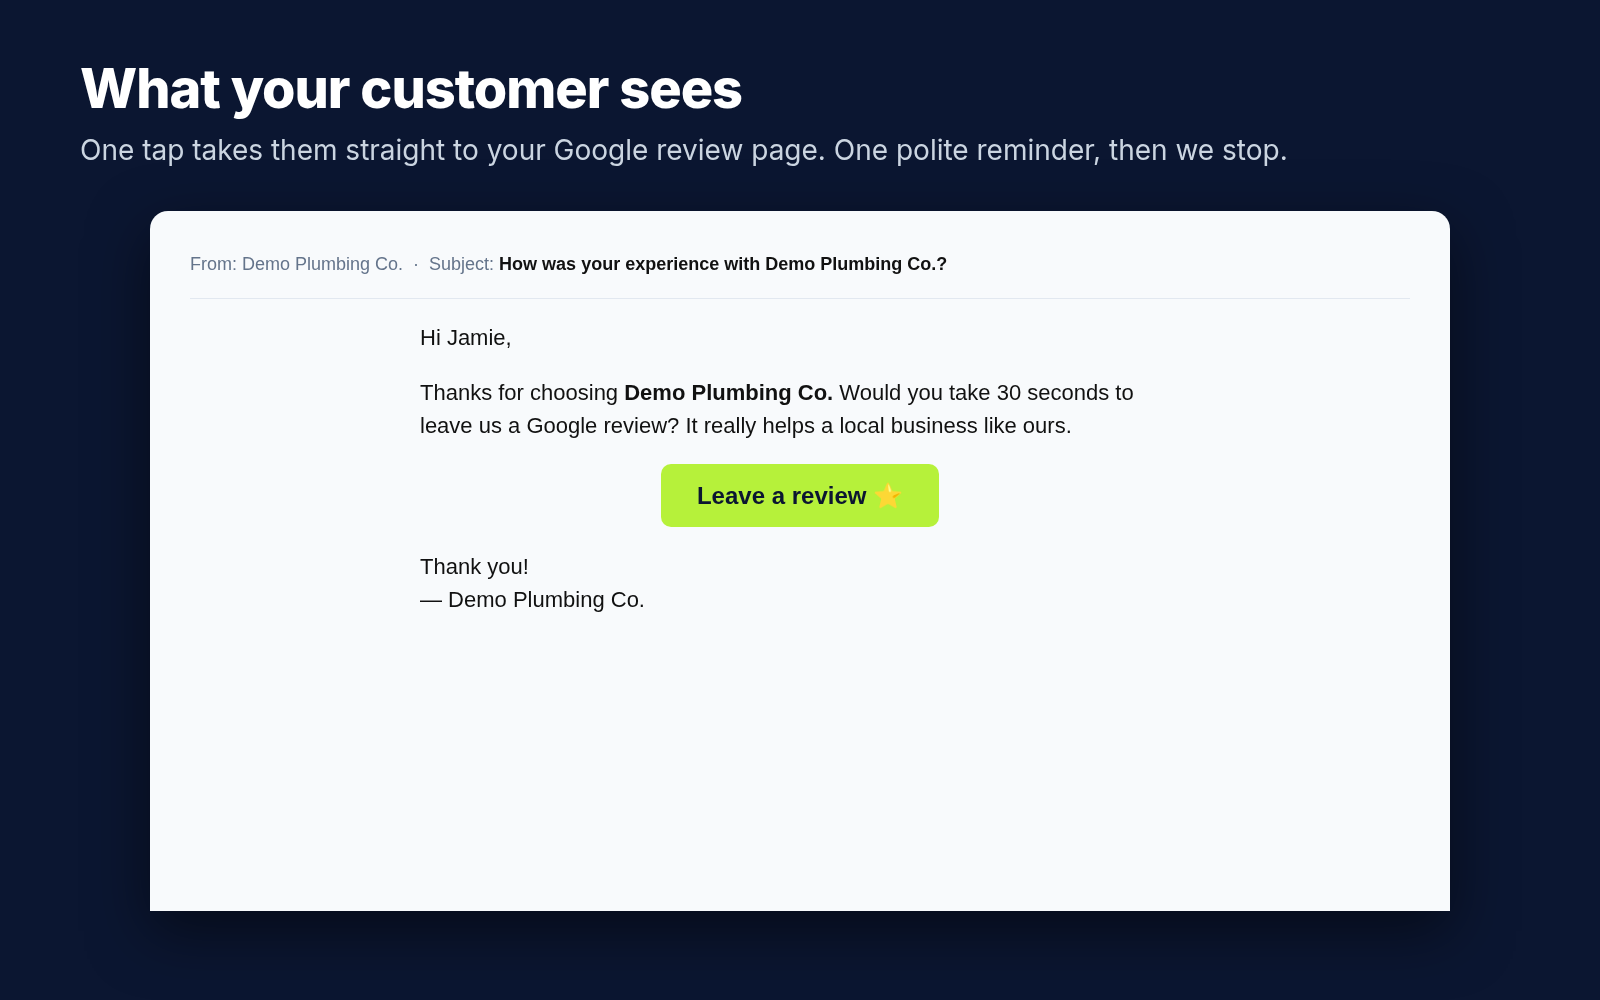
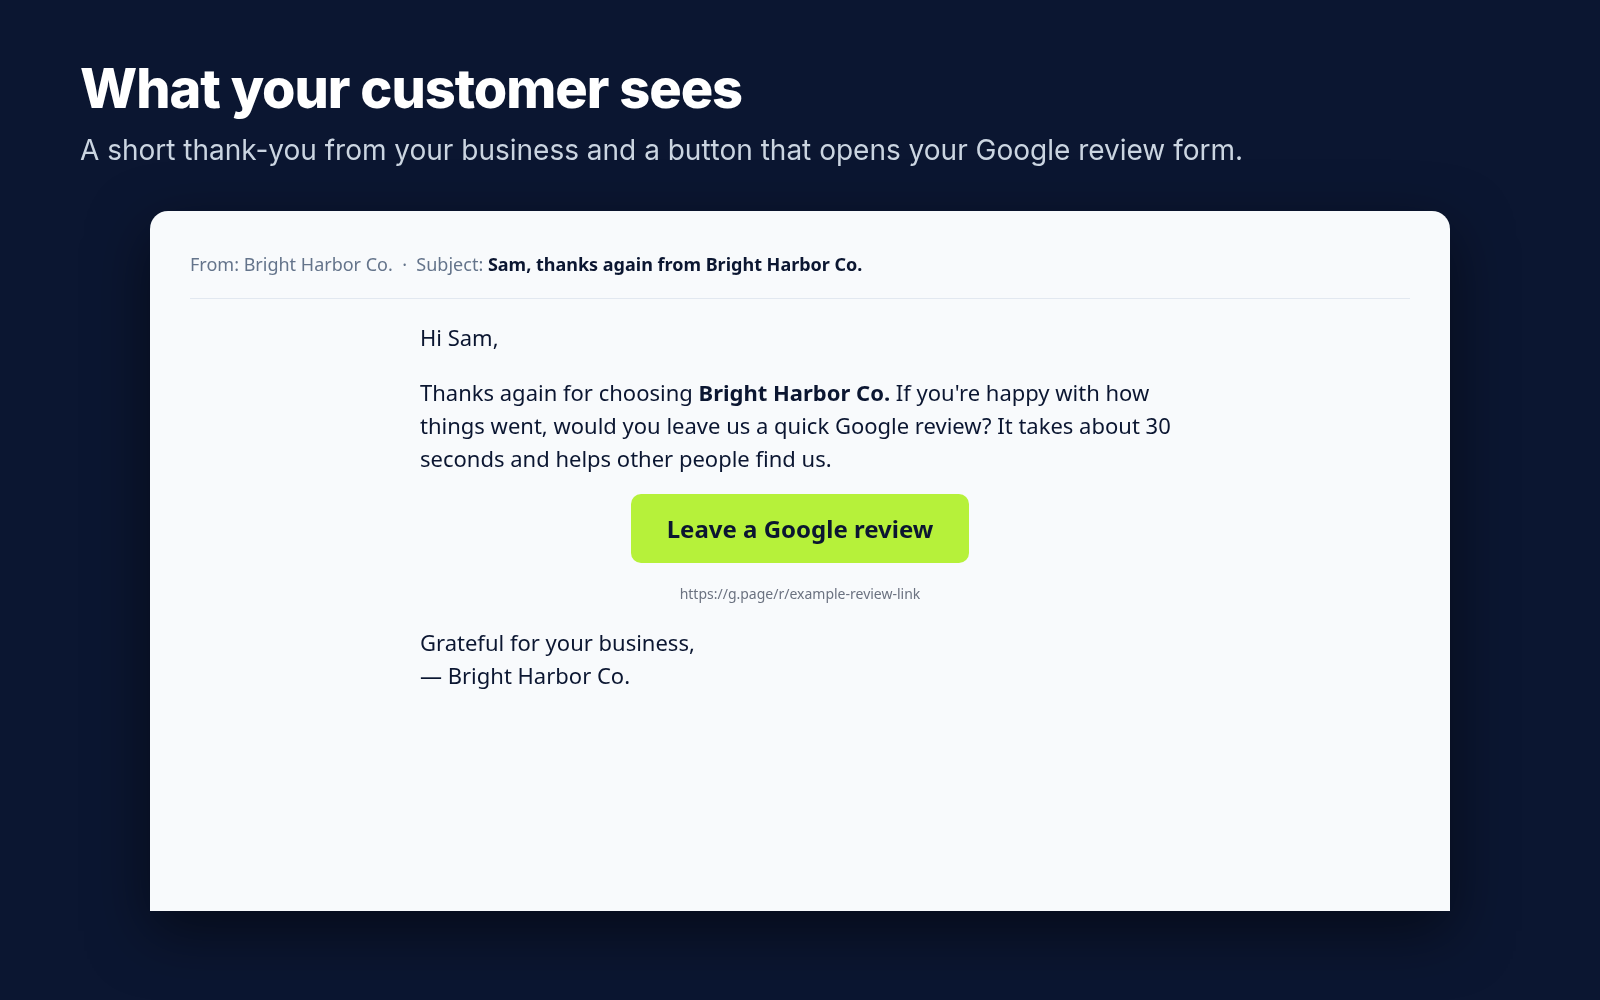
Refresh customer-email screenshot to new ask copy
Match Bright Harbor Co. sample, personal subject, Leave a Google review CTA, and visible review URL on homepage + Jobber listing assets.

diff --git a/gtm/jobber-listing/src/03-customer-email.html b/gtm/jobber-listing/src/03-customer-email.html
@@ -1,3 +1,3 @@
 <html><body style="margin:0;width:1600px;height:1000px;background:#0b1631;font-family:Inter,Helvetica,Arial,sans-serif;color:#fff;overflow:hidden">
-<div style="padding:56px 80px 0"><div style="font-size:54px;font-weight:800;letter-spacing:-1px">What your customer sees</div><div style="font-size:28px;color:#cbd5e1;margin-top:12px">One tap takes them straight to your Google review page. One polite reminder, then we stop.</div></div>
-<div style="margin:44px auto 0;width:1300px;height:700px;border-radius:18px 18px 0 0;overflow:hidden;background:#f8fafc;box-shadow:0 20px 60px rgba(0,0,0,.5)"><div style="padding:40px;font-family:Arial;color:#111;font-size:22px;line-height:1.5"><div style="color:#64748b;font-size:18px">From: Demo Plumbing Co. &nbsp;·&nbsp; Subject: <b style="color:#111">How was your experience with Demo Plumbing Co.?</b></div><hr style="border:0;border-top:1px solid #e2e8f0;margin:20px 0"><div style="max-width:760px;margin:0 auto"><p>Hi Jamie,</p><p>Thanks for choosing <b>Demo Plumbing Co.</b> Would you take 30 seconds to leave us a Google review? It really helps a local business like ours.</p><p style="text-align:center;margin:36px 0"><span style="background:#b6f13a;color:#0b1631;padding:18px 36px;border-radius:10px;font-weight:700;font-size:24px">Leave a review ⭐</span></p><p>Thank you!<br>— Demo Plumbing Co.</p></div></div></div></body></html>
+<div style="padding:56px 80px 0"><div style="font-size:54px;font-weight:800;letter-spacing:-1px">What your customer sees</div><div style="font-size:28px;color:#cbd5e1;margin-top:12px">A short thank-you from your business and a button that opens your Google review form.</div></div>
+<div style="margin:44px auto 0;width:1300px;height:700px;border-radius:18px 18px 0 0;overflow:hidden;background:#f8fafc;box-shadow:0 20px 60px rgba(0,0,0,.5)"><div style="padding:40px;font-family:system-ui,Arial,sans-serif;color:#0b1631;font-size:22px;line-height:1.5"><div style="color:#64748b;font-size:18px">From: Bright Harbor Co. &nbsp;·&nbsp; Subject: <b style="color:#0b1631">Sam, thanks again from Bright Harbor Co.</b></div><hr style="border:0;border-top:1px solid #e2e8f0;margin:20px 0"><div style="max-width:760px;margin:0 auto"><p>Hi Sam,</p><p>Thanks again for choosing <b>Bright Harbor Co.</b> If you're happy with how things went, would you leave us a quick Google review? It takes about 30 seconds and helps other people find us.</p><p style="text-align:center;margin:36px 0"><span style="background:#b6f13a;color:#0b1631;padding:18px 36px;border-radius:10px;font-weight:700;font-size:24px">Leave a Google review</span></p><p style="text-align:center;font-size:14px;color:#6b7280">https://g.page/r/example-review-link</p><p>Grateful for your business,<br>— Bright Harbor Co.</p></div></div></div></body></html>
